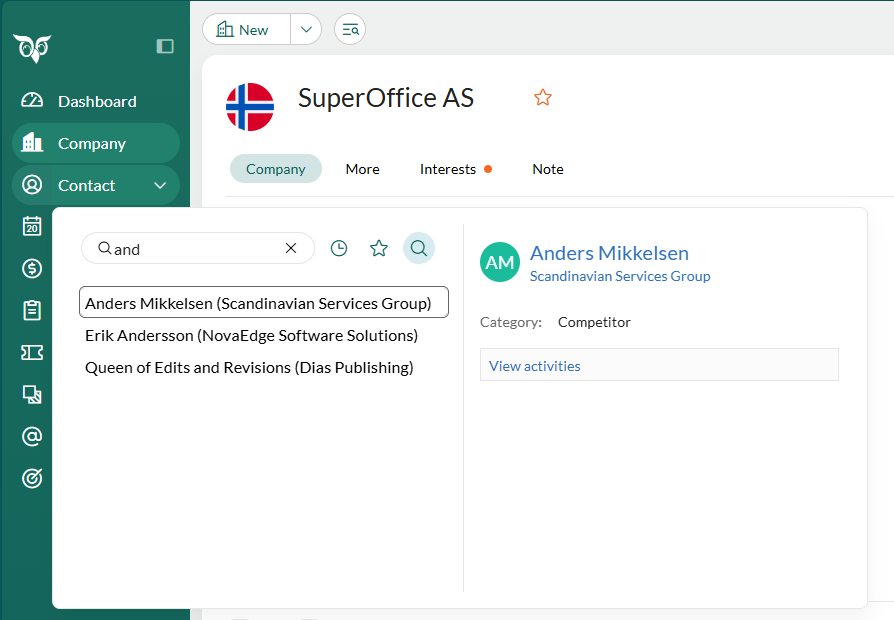
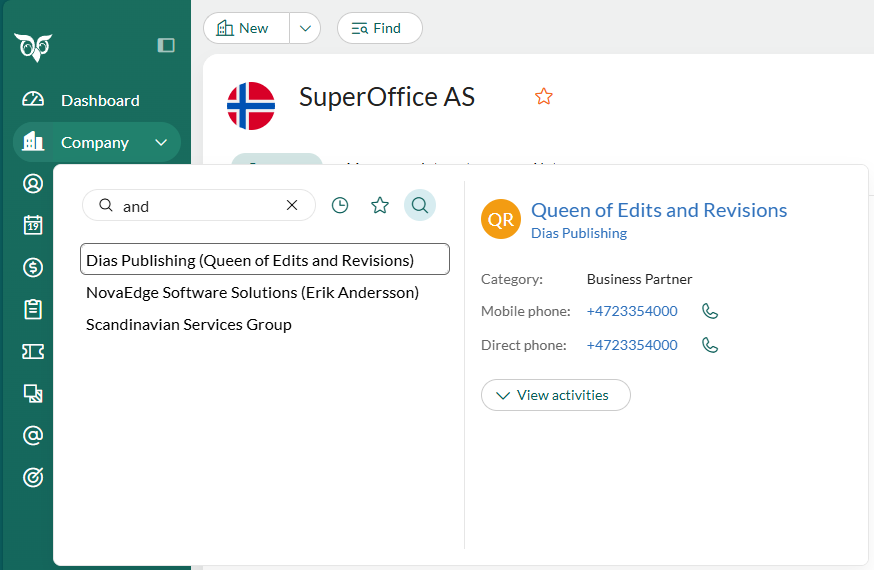
#2156 Update screenshots showing top bar + pages search-options index and find-screen + AI config

diff --git a/docs/en/ai/configuration-ai/getting-started.md b/docs/en/ai/configuration-ai/getting-started.md
@@ -1,15 +1,17 @@
 ---
-title: config categorization AI Services
+uid: ai-categorization-setup
+title: How to set up and configure Categorization AI Service
 description: How to setup and configure Categorization AI Service
-author: AnthonyYates
 keywords: AI
-content_type: tutorial, howto
+author: AnthonyYates
+date: 08.25.2025
+content_type: tutorial
 deployment: online
 platform: web
 index: true
 ---
 
-# How to setup and configure Categorization AI Service
+# How to set up and configure Categorization AI Service
 
 To be able to take advantage of these services, SuperOffice Service must be in use.
 
@@ -25,22 +27,22 @@ The Machine-learning categorization service is enabled in Settings and maintenan
 1. Open the Sales client.
 
 2. Create a selection of requests to use for analysis:
-     * Click either <i class="ph ph-list-magnifying-glass" aria-label="Find icon"></i> or **New > Selection**.
+     * Click either <i class="ph ph-list-magnifying-glass" aria-label="Find icon"></i> **Find** or **New** > **Selection**.
 
-    ![x -screenshot][img2]
+    ![New selection button -screenshot][img2]
 
-3. Create a selection type: Request
+3. Choose a selection type: Request
     * Either click **Find Request** or choose a selection from **Typical searches**.
 
-    ![x -screenshot][img3]
+    ![Typical searches -screenshot][img3]
 
 4. Update criteria:
     1. Select your criteria to match the selection for the request you want to use for analysis.
     2. Click **Find**.
 
-    ![x -screenshot][img4]
+    ![Selection criteria -screenshot][img4]
 
-5. Save selection
+5. Save the selection:
     1. Click **Save as selection**.
     2. Select "Static selection" or "Dynamic selection".
     3. Enter a name.
@@ -114,8 +116,8 @@ When the users navigate to a request, there will be a link if there is a sugges
 <!-- Referenced links -->
 
 <!-- Referenced images -->
-[img2]: media/selection-option.png
-[img3]: media/find-request-menu.png
+[img2]: ../../../media/loc/en/search-options/choose-new-selection.png
+[img3]: ../../../media/loc/en/search-options/typical-request-searches.png
 [img4]: media/find-request-search-criteria.png
 [img6]: media/select-selection-type-dialog.png
 [img7]: media/name-selection-input.png

diff --git a/docs/en/search-options/learn/find-screen.md b/docs/en/search-options/learn/find-screen.md
@@ -2,28 +2,29 @@
 uid: help-en-find-screen
 title: Find screen
 description: How to find all items of a specific type that match conditions, run a predefined search, or save a search as a selection.
-keywords: search, find, typical, criteria, or, selection
-author: SuperOffice RnD
-date: 01.20.2025
-version: 10.5
+keywords: Find screen, typical search, search criteria, OR function
+author: SuperOffice Product and engineering
+date: 08.25.2025
+version: 11.3
 content_type: howto
 audience: person
 audience_tooltip: SuperOffice CRM
 language: en
+index: true
 ---
 
-# The Find screen <i class="ph ph-list-magnifying-glass" aria-label="Find icon"></i>
+# The Find screen <i class="ph ph-list-magnifying-glass" aria-hidden="true"></i>
 
 To search for records and data in SuperOffice CRM, use the **Find** screen.
 
 There are effectively no limits to what you can search for in SuperOffice CRM. At the end of this section, we have included examples to provide you with tips on searching.
 
 > [!NOTE]
-> If you have a licence for Developer Tools, you can search for products in existing quotes. If you have a licence for SuperOffice Service, you can search for requests.
+> If you have a licence for Development Tools, you can search for products in existing quotes. If you have a licence for SuperOffice Service, you can search for requests.
 
 ## Search for information in SuperOffice CRM
 
-1. Click the **Find** button (<i class="ph ph-list-magnifying-glass" aria-hidden="true"></i>) on the [top bar][1].
+1. Click <i class="ph ph-list-magnifying-glass" aria-hidden="true"></i> **Find** on the [top bar][1].
 
 1. Click the type of record you want to search for, or click **Typical searches** to display a list of predefined searches. The **Criteria** tab opens.
 

diff --git a/docs/en/search-options/learn/index.md b/docs/en/search-options/learn/index.md
@@ -4,12 +4,13 @@ title: Search options
 description: Learn how to search and find data in SuperOffice CRM with just a few clicks.
 keywords: search, find
 author: Bergfrid Dias
-date: 01.20.2025
-version: 10.5
+date: 08.25.2025
+version: 11.3
 content_type: concept
 audience: person
 audience_tooltip: SuperOffice CRM
 language: en
+index: true
 ---
 
 # Search options <i class="ph ph-magnifying-glass" aria-hidden="true"></i>
@@ -93,7 +94,7 @@ From the Find screen, you can save each search you perform as a selection.
 
 A typical search is a *predefined search* based on what other users typically search for. Each data set in the Find screen contains a list of ready-to-use, pre-set search criteria.
 
-To get started, click <i class="ph ph-list-magnifying-glass" aria-label="Find icon"></i> and then click below the group of data you are interested in. Use the typical search as-is or modify or expand it.
+To get started, click <i class="ph ph-list-magnifying-glass" aria-hidden="true"></i> **Find** and then click below the group of data you are interested in. Use the typical search as-is or modify or expand it.
 
 ### Example: My overdue follow-ups
 
@@ -145,6 +146,6 @@ Watch this video or follow the steps below to learn how you can create a search 
 
 <!-- Referenced images -->
 [img1]: ../../../media/loc/en/search-options/search-find-fastsearcher.png
-[img2]: ../../../media/loc/en/search-options/getstarted-search-find-findscreen.png
-[img3]: ../../../media/loc/en/search-options/freetext-search-find.png
+[img2]: ../../../media/loc/en/search-options/find-screen.png
+[img3]: ../../../media/loc/en/search-options/freetext-search-box.png
 [img5]: ../../../media/loc/en/request/typical-searches-for-request.png

diff --git a/docs/de/search-options/learn/find-screen.md b/docs/de/search-options/learn/find-screen.md
@@ -4,15 +4,16 @@ title: Ansicht Suchen
 description: Ansicht Suchen
 keywords: Suchen
 author: Bergfrid Dias
-date: 02.11.2025
-version: 10.5.2
+date: 08.25.2025
+version: 11.3
 content_type: concept
 audience: person
 audience_tooltip: SuperOffice CRM
 language: de
+index: true
 ---
 
-# Die Ansicht Suchen <i class="ph ph-list-magnifying-glass" aria-label="Find icon"></i>
+# Die Ansicht Suchen <i class="ph ph-list-magnifying-glass" aria-hidden="true"></i>
 
 Verwenden Sie die Ansicht **Suchen**, um in SuperOffice CRM nach Datensätzen und Daten zu suchen.
 
@@ -23,7 +24,7 @@ Es gibt keine Einschränkungen dafür, was Sie in SuperOffice CRM suchen. Am End
 
 ## Schritte
 
-1. Klicken Sie in der [oberen Leiste][1] auf die Schaltfläche **Suchen** (<i class="ph ph-list-magnifying-glass" aria-hidden="true"></i>).
+1. Klicken Sie in der [oberen Leiste][1] auf die Schaltfläche <i class="ph ph-list-magnifying-glass" aria-hidden="true"></i> **Suchen**.
 
 1. Klicken Sie auf den Datensatztyp, nach dem Sie suchen möchten, oder klicken Sie auf **Typische Suchanfragen**, um eine Liste vordefinierter Suchanfragen anzuzeigen. Die Registerkarte **Kriterien** wird geöffnet.
 

diff --git a/docs/nl/search-options/learn/find-screen.md b/docs/nl/search-options/learn/find-screen.md
@@ -4,15 +4,16 @@ title: Scherm zoeken
 description: Scherm zoeken
 keywords: zoeken
 author: Bergfrid Dias
-date: 03.14.2025
-version: 10.5.2
+date: 08.25.2025
+version: 11.3
 content_type: concept
 audience: person
 audience_tooltip: SuperOffice CRM
 language: nl
+index: true
 ---
 
-# Het scherm Zoeken <i class="ph ph-list-magnifying-glass" aria-label="Find icon"></i>
+# Het scherm Zoeken <i class="ph ph-list-magnifying-glass" aria-hidden="true"></i>
 
 Gebruik het scherm **Zoeken** voor het zoeken in SuperOffice CRM naar records en gegevens.
 
@@ -23,7 +24,7 @@ Er zijn feitelijk geen beperkingen op waar u naar kunt zoeken in SuperOffice CRM
 
 ## Stappen
 
-1. Klik op de knop **Zoeken** (<i class="ph ph-list-magnifying-glass" aria-hidden="true"></i>) op de [bovenste balk][1].
+1. Klik op de knop <i class="ph ph-list-magnifying-glass" aria-hidden="true"></i> **Zoeken** op de [bovenste balk][1].
 
 1. Klik op het type record dat u wilt zoeken of klik op **Typische zoekopdrachten** om een lijst met vooraf gedefinieerde zoekopdrachten weer te geven. Het tabblad **Criteria** wordt geopend.
 

diff --git a/docs/da/search-options/learn/find-screen.md b/docs/da/search-options/learn/find-screen.md
@@ -4,15 +4,16 @@ title: Skærmbilledet Find
 description: Skærmbilledet Find
 keywords: søge, finde
 author: Bergfrid Dias
-date: 02.25.2025
-version: 10.5.2
+date: 08.25.2025
+version: 11.3
 content_type: concept
 audience: person
 audience_tooltip: SuperOffice CRM
 language: da
+index: true
 ---
 
-# Skærmbilledet Find <i class="ph ph-list-magnifying-glass" aria-label="Find icon"></i>
+# Skærmbilledet Find <i class="ph ph-list-magnifying-glass" aria-hidden="true"></i>
 
 Hvis du vil søge efter poster og data i SuperOffice CRM, skal du bruge skærmbilledet **Find**.
 
@@ -23,7 +24,7 @@ Der er nærmest ingen grænser for, hvad du kan søge efter i SuperOffice CRM. I
 
 ## Trin
 
-1. Klik på knappen **Find** (<i class="ph ph-list-magnifying-glass" aria-hidden="true"></i>) på [toplinjen][1].
+1. Klik på <i class="ph ph-list-magnifying-glass" aria-hidden="true"></i> **Find** på [toplinjen][1].
 
 1. Klik på den posttype, du vil søge efter, eller klik på **Typiske søgninger** for at få vist en liste over foruddefinerede søgninger. Fanen **Kriterier** åbnes.
 

diff --git a/docs/no/search-options/learn/find-screen.md b/docs/no/search-options/learn/find-screen.md
@@ -4,15 +4,16 @@ title: Søke-skjerm
 description: Søke-skjerm
 keywords: søk, finn
 author: SuperOffice RnD
-date: 01.29.2025
-version: 10.5
+date: 08.25.2025
+version: 11.3
 content_type: howto
 audience: person
 audience_tooltip: SuperOffice CRM
 language: no
+index: true
 ---
 
-# Søke-skjermen <i class="ph ph-list-magnifying-glass" aria-label="Find icon"></i>
+# Søke-skjermen <i class="ph ph-list-magnifying-glass" aria-hidden="true"></i>
 
 Hvis du vil søke etter poster og data i SuperOffice CRM, bruker du **Søk**-skjermen.
 
@@ -23,7 +24,7 @@ Det er i praksis ingen grenser for hva du kan søke etter i SuperOffice CRM. På
 
 ## Søke etter informasjon i SuperOffice CRM
 
-1. Klikk på **Finn**-knappen (<i class="ph ph-list-magnifying-glass" aria-hidden="true"></i>) på [toppraden][1].
+1. Klikk på <i class="ph ph-list-magnifying-glass" aria-hidden="true"></i> **Finn**-knappen på [toppraden][1].
 
 1. Klikk på typen post du vil søke etter, eller klikk på **Vanlige søk** for å vise en liste over forhåndsdefinerte søk. Fanen **Kriterier** åpnes.
 

diff --git a/docs/sv/search-options/learn/find-screen.md b/docs/sv/search-options/learn/find-screen.md
@@ -4,15 +4,16 @@ title: Fönstret Sök
 description: Fönstret Sök
 keywords: söka, sök
 author: Bergfrid Dias
-date: 02.25.2025
-version: 10.5.2
+date: 08.25.2025
+version: 11.3
 content_type: concept
 audience: person
 audience_tooltip: SuperOffice CRM
 language: sv
+index: true
 ---
 
-# Fönstret Sök <i class="ph ph-list-magnifying-glass" aria-label="Find icon"></i>
+# Fönstret Sök <i class="ph ph-list-magnifying-glass" aria-hidden="true"></i>
 
 För att söka efter poster och data i SuperOffice CRM använder du fönstret **Sök**.
 
@@ -23,7 +24,7 @@ Det finns i princip inga gränser för vad du kan söka efter i SuperOffice CRM.
 
 ## Steg
 
-1. Klicka på **Sök**-knappen (<i class="ph ph-list-magnifying-glass" aria-hidden="true"></i>) på [toppraden][1].
+1. Klicka på <i class="ph ph-list-magnifying-glass" aria-hidden="true"></i> **Sök**-knappen på [toppraden][1].
 
 1. Klicka på den typ av post du vill söka efter eller klicka på **Vanliga sökningar** för att visa en lista med fördefinierade sökningar. Fliken **Kriterier** öppnas.
 

diff --git a/docs/da/search-options/learn/index.md b/docs/da/search-options/learn/index.md
@@ -147,6 +147,6 @@ Se denne video, eller følg trinnene nedenunder for at lære, hvordan du kan opr
 
 <!-- Referenced images -->
 [img1]: ../../../media/loc/en/search-options/search-find-fastsearcher.png
-[img2]: ../../../media/loc/en/search-options/getstarted-search-find-findscreen.png
-[img3]: ../../../media/loc/en/search-options/freetext-search-find.png
+[img2]: ../../../media/loc/en/search-options/find-screen.png
+[img3]: ../../../media/loc/en/search-options/freetext-search-box.png
 [img5]: ../../../media/loc/en/request/typical-searches-for-request.png

diff --git a/docs/de/search-options/learn/index.md b/docs/de/search-options/learn/index.md
@@ -147,6 +147,6 @@ Sehen Sie sich dieses Video an oder führen Sie die folgenden Schritte aus, um z
 
 <!-- Referenced images -->
 [img1]: ../../../media/loc/en/search-options/search-find-fastsearcher.png
-[img2]: ../../../media/loc/en/search-options/getstarted-search-find-findscreen.png
-[img3]: ../../../media/loc/en/search-options/freetext-search-find.png
+[img2]: ../../../media/loc/en/search-options/find-screen.png
+[img3]: ../../../media/loc/en/search-options/freetext-search-box.png
 [img5]: ../../../media/loc/en/request/typical-searches-for-request.png

diff --git a/docs/nl/search-options/learn/index.md b/docs/nl/search-options/learn/index.md
@@ -147,6 +147,6 @@ Bekijk deze video of volg de onderstaande stappen om te zien hoe u een zoekopdra
 
 <!-- Referenced images -->
 [img1]: ../../../media/loc/en/search-options/search-find-fastsearcher.png
-[img2]: ../../../media/loc/en/search-options/getstarted-search-find-findscreen.png
-[img3]: ../../../media/loc/en/search-options/freetext-search-find.png
+[img2]: ../../../media/loc/en/search-options/find-screen.png
+[img3]: ../../../media/loc/en/search-options/freetext-search-box.png
 [img5]: ../../../media/loc/en/request/typical-searches-for-request.png

diff --git a/docs/no/search-options/learn/index.md b/docs/no/search-options/learn/index.md
@@ -150,6 +150,6 @@ Se denne videoen, eller følg trinnene nedenfor for å lære hvordan du kan oppr
 
 <!-- Referenced images -->
 [img1]: ../../../media/loc/en/search-options/search-find-fastsearcher.png
-[img2]: ../../../media/loc/en/search-options/getstarted-search-find-findscreen.png
-[img3]: ../../../media/loc/en/search-options/freetext-search-find.png
+[img2]: ../../../media/loc/en/search-options/find-screen.png
+[img3]: ../../../media/loc/en/search-options/freetext-search-box.png
 [img5]: ../../../media/loc/en/request/typical-searches-for-request.png
